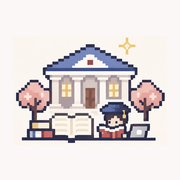
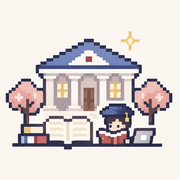
앱 아이콘: 그림을 더 크게, 네모 테두리 제거
Claude-Session: https://claude.ai/code/session_01XSRKE68S2DA48kQQAeh7jP

Changed region(s): [[0.0278, 0.1667, 0.9722, 0.8333]]

diff --git a/research-village/src/app/manifest.ts b/research-village/src/app/manifest.ts
@@ -14,7 +14,7 @@ export default function manifest(): MetadataRoute.Manifest {
     scope: `${base}/`,
     display: "standalone",
     orientation: "portrait",
-    background_color: "#fbf7f6",
+    background_color: "#fbf5ef",
     theme_color: "#fdf6e9",
     lang: "ko",
     icons: [
